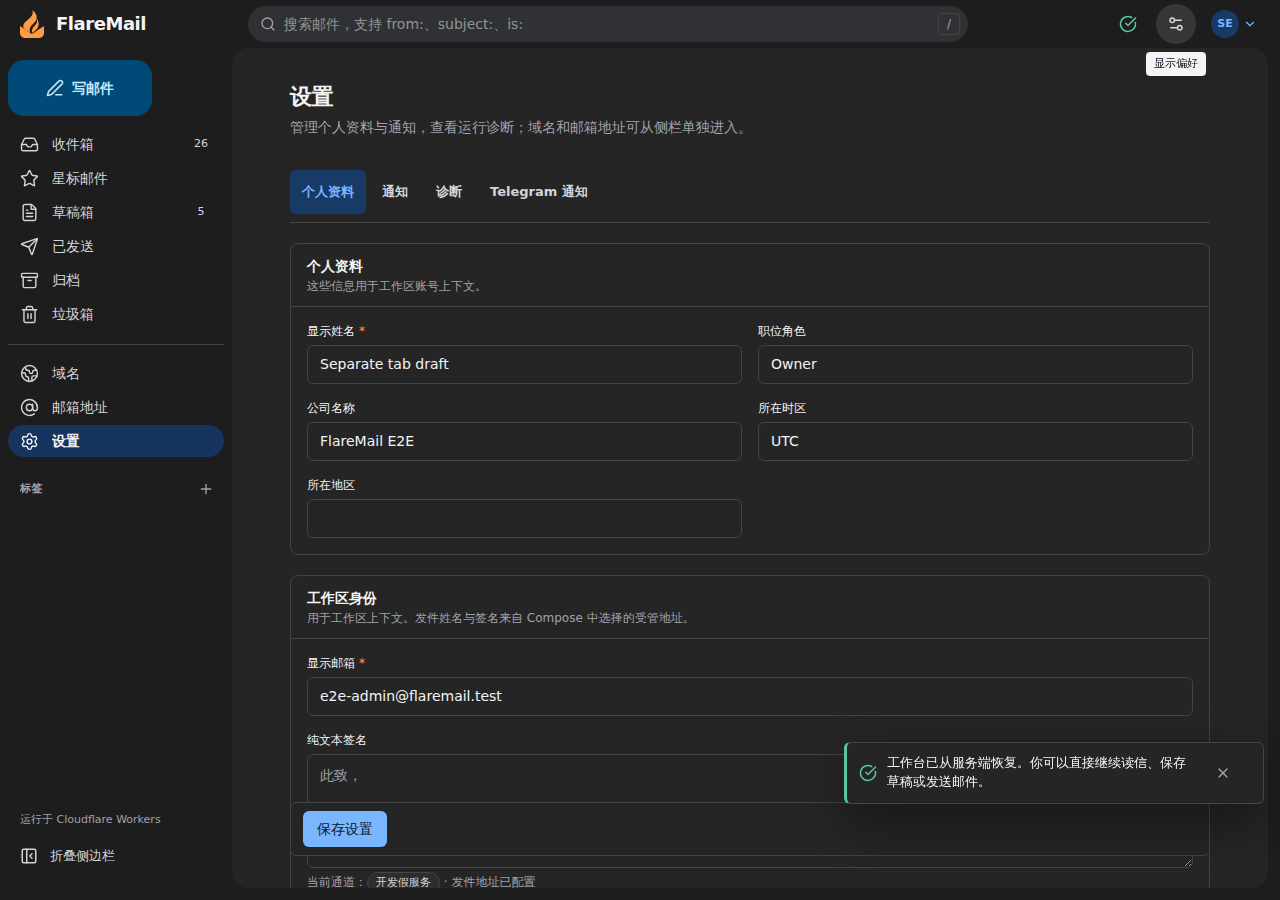
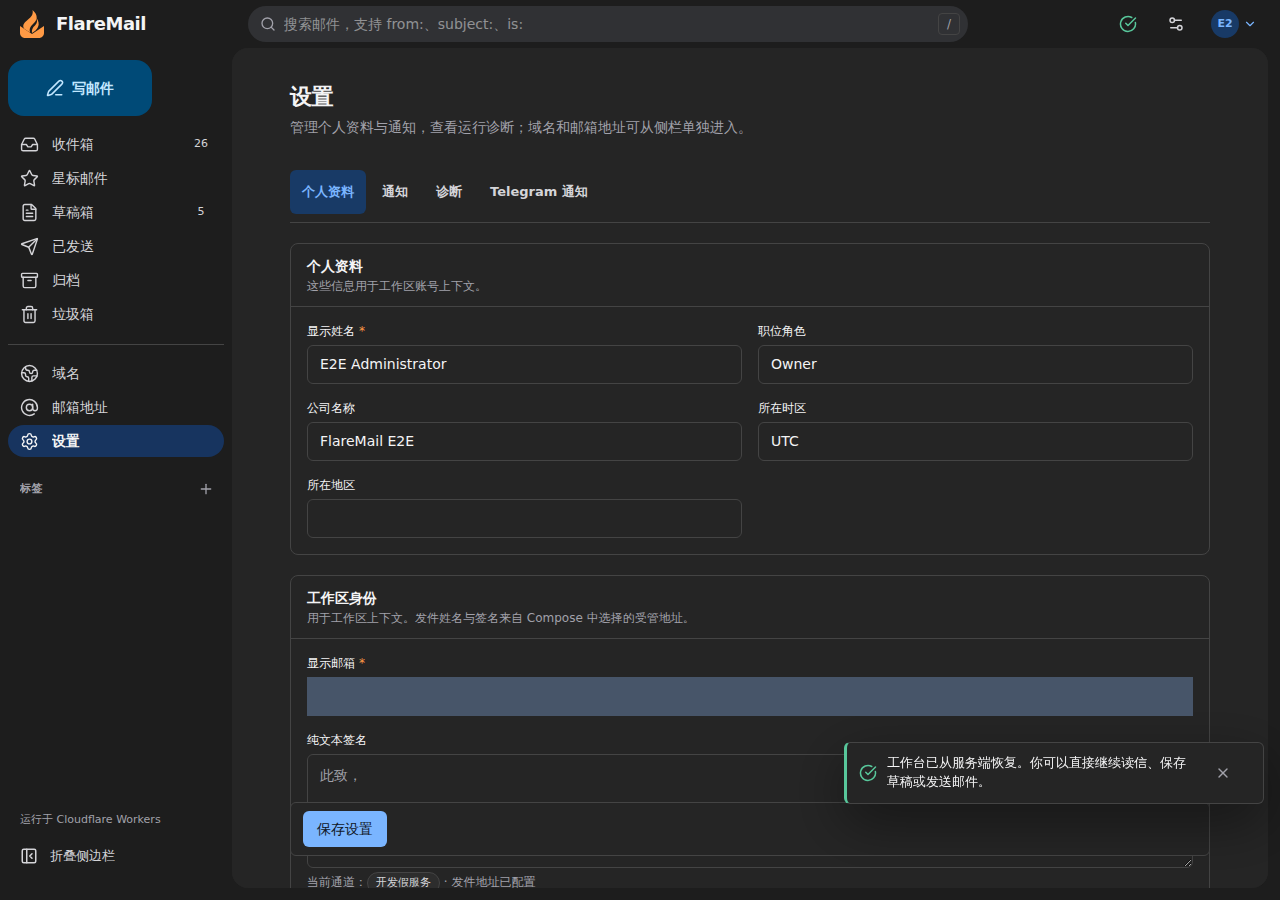
docs(settings): mask example email in screenshots

Changed region(s): [[0.2188, 0.7467, 0.9375, 0.8089], [0.25, 0.3733, 0.3438, 0.4356], [0.875, 0.0, 0.9688, 0.0933]]

diff --git a/docs/specs/list-pagination-and-settings-tabs.md b/docs/specs/list-pagination-and-settings-tabs.md
@@ -77,7 +77,7 @@ URL 使用 `folder=settings&tab=<值>`，保留 `view=domains|addresses` 与 `do
 
 兼容 `#settings-profile`、`#settings-notifications`、`#settings-diagnostics`、`#settings-telegram`：没有合法 tab 时映射旧锚点到对应标签，使用 replace 规范化 URL；合法 tab 优先。标签切换不再执行页面分区锚点跳转。设置页已移除重复的外观标签和主题选择器，桌面通过全局显示偏好、手机通过全局导航抽屉切换主题，继续即时生效并持久化；浏览器禁止主题存储时，当前标签页的选择器仍与已应用主题同步。旧 `tab=appearance` 和 `#settings-appearance` 链接按无效标签回到个人资料并规范化 URL。
 
-移除外观标签后的[桌面](../images/settings-without-appearance-desktop.png)和[手机](../images/settings-without-appearance-mobile.png)截图来自隔离本地 synthetic 数据；不代表远程 Owner 验收。
+移除外观标签后的[桌面](../images/settings-without-appearance-desktop.png)和[手机](../images/settings-without-appearance-mobile.png)截图来自隔离本地 synthetic 数据，示例邮箱字段已遮挡；不代表远程 Owner 验收。
 
 ### 草稿和独立保存
 
